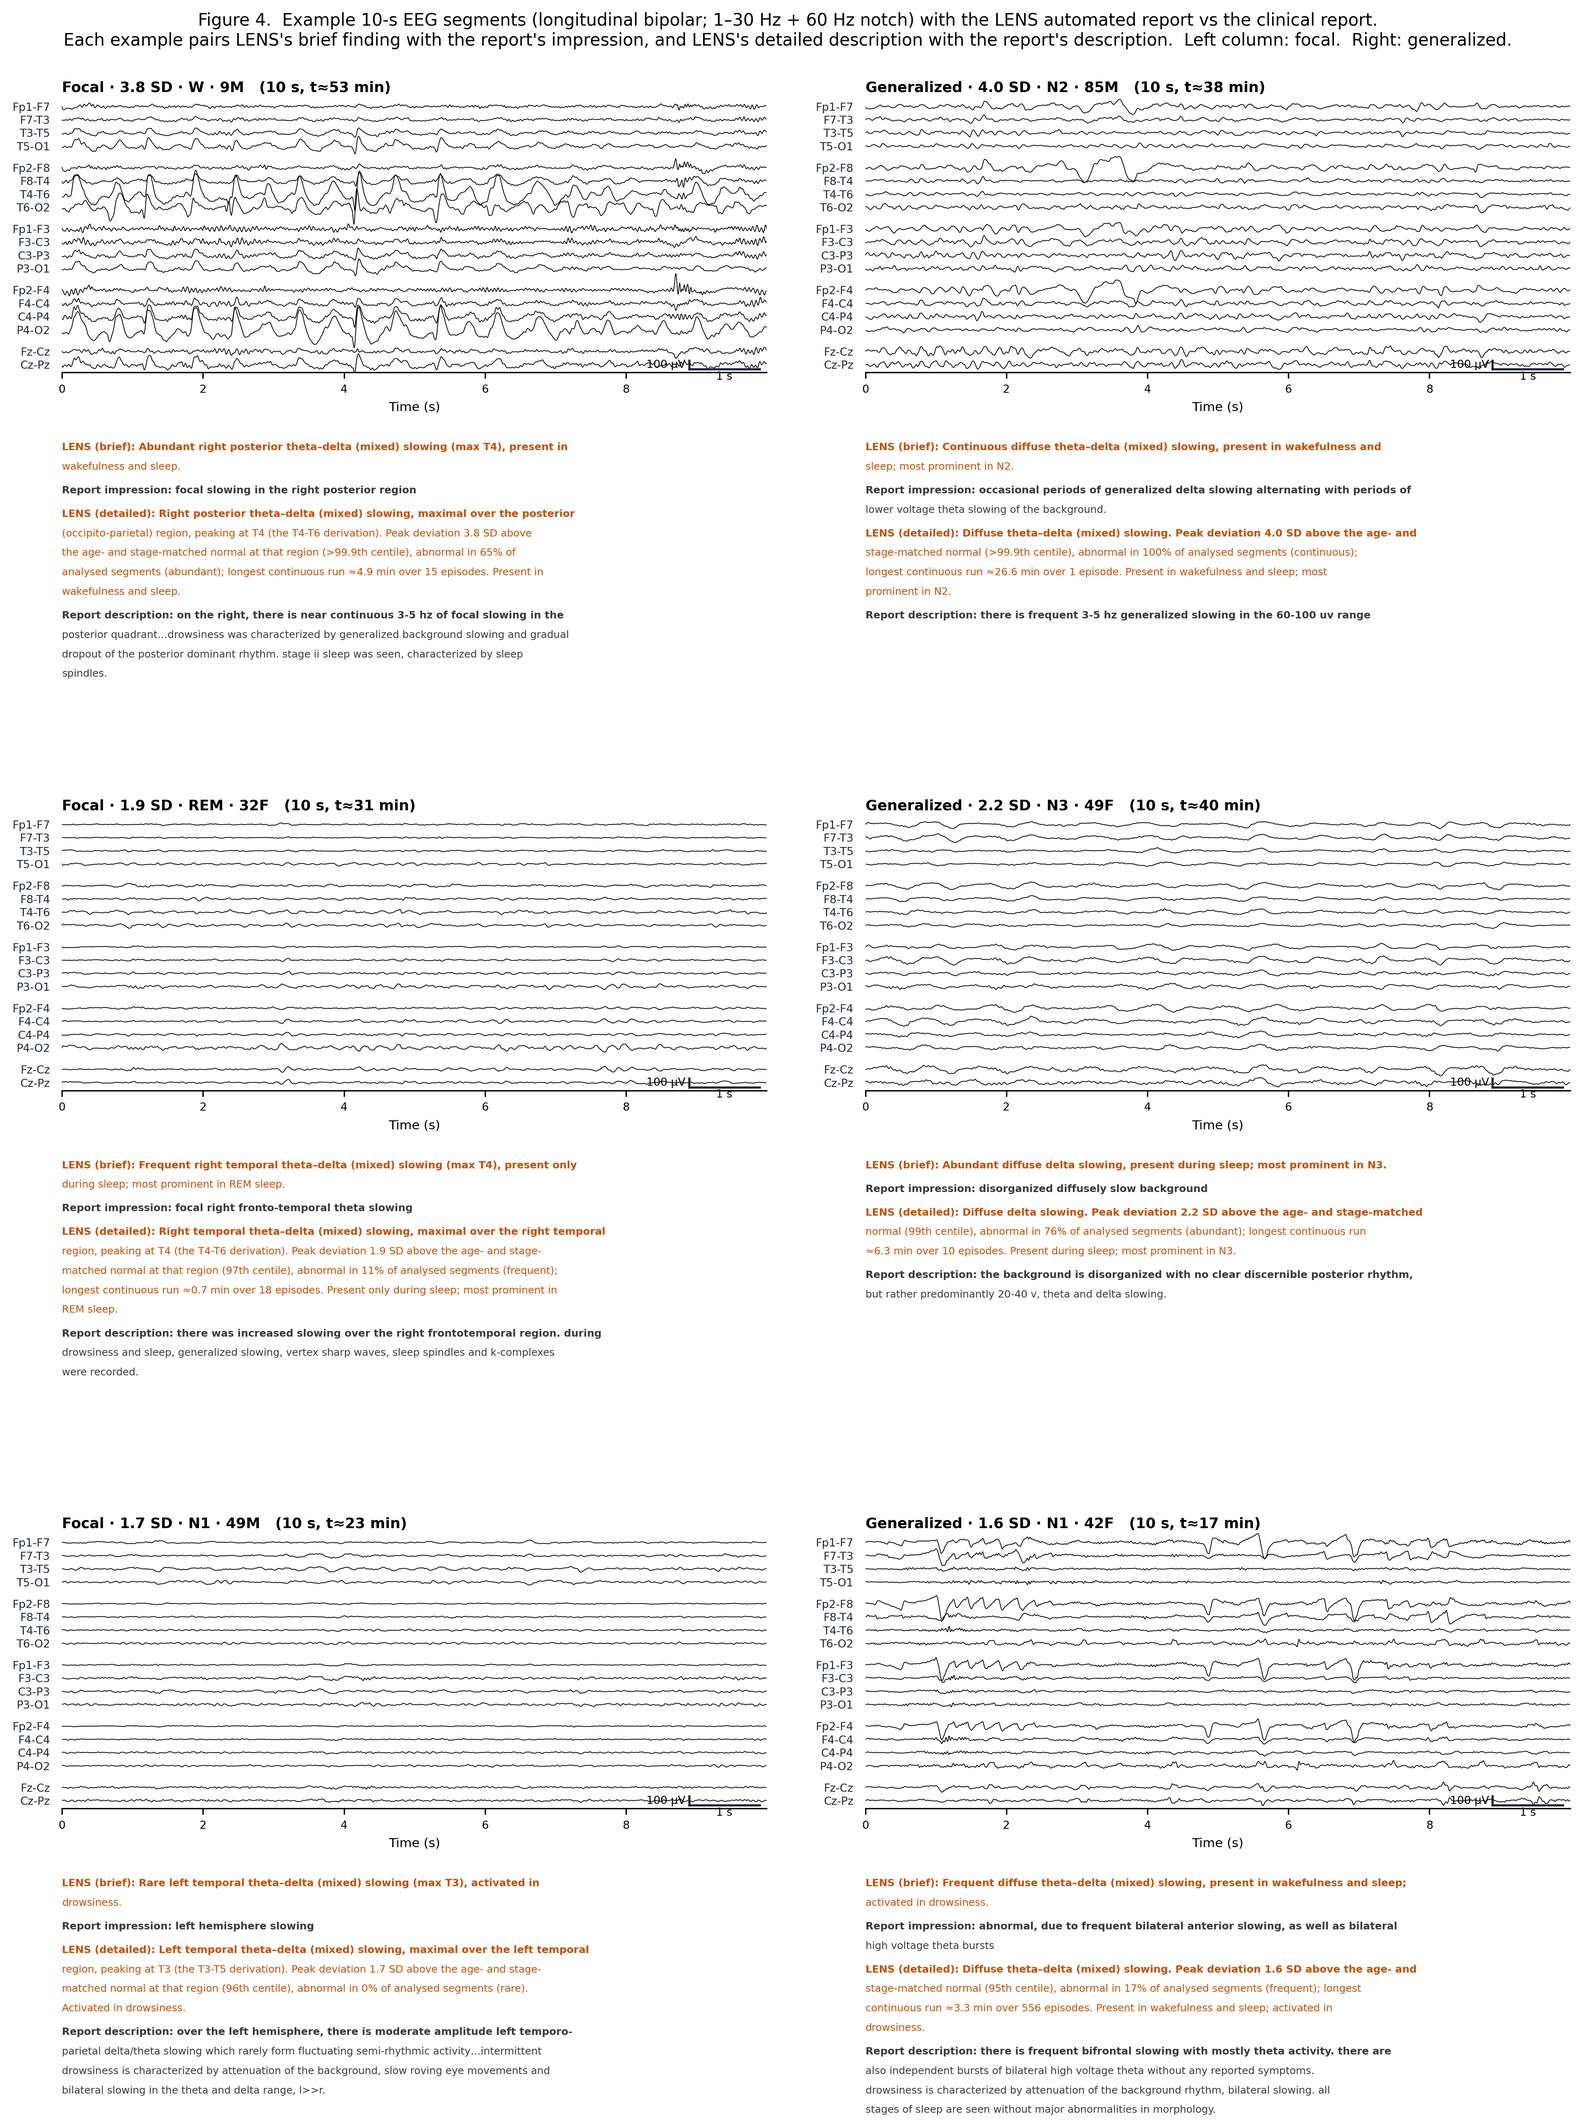
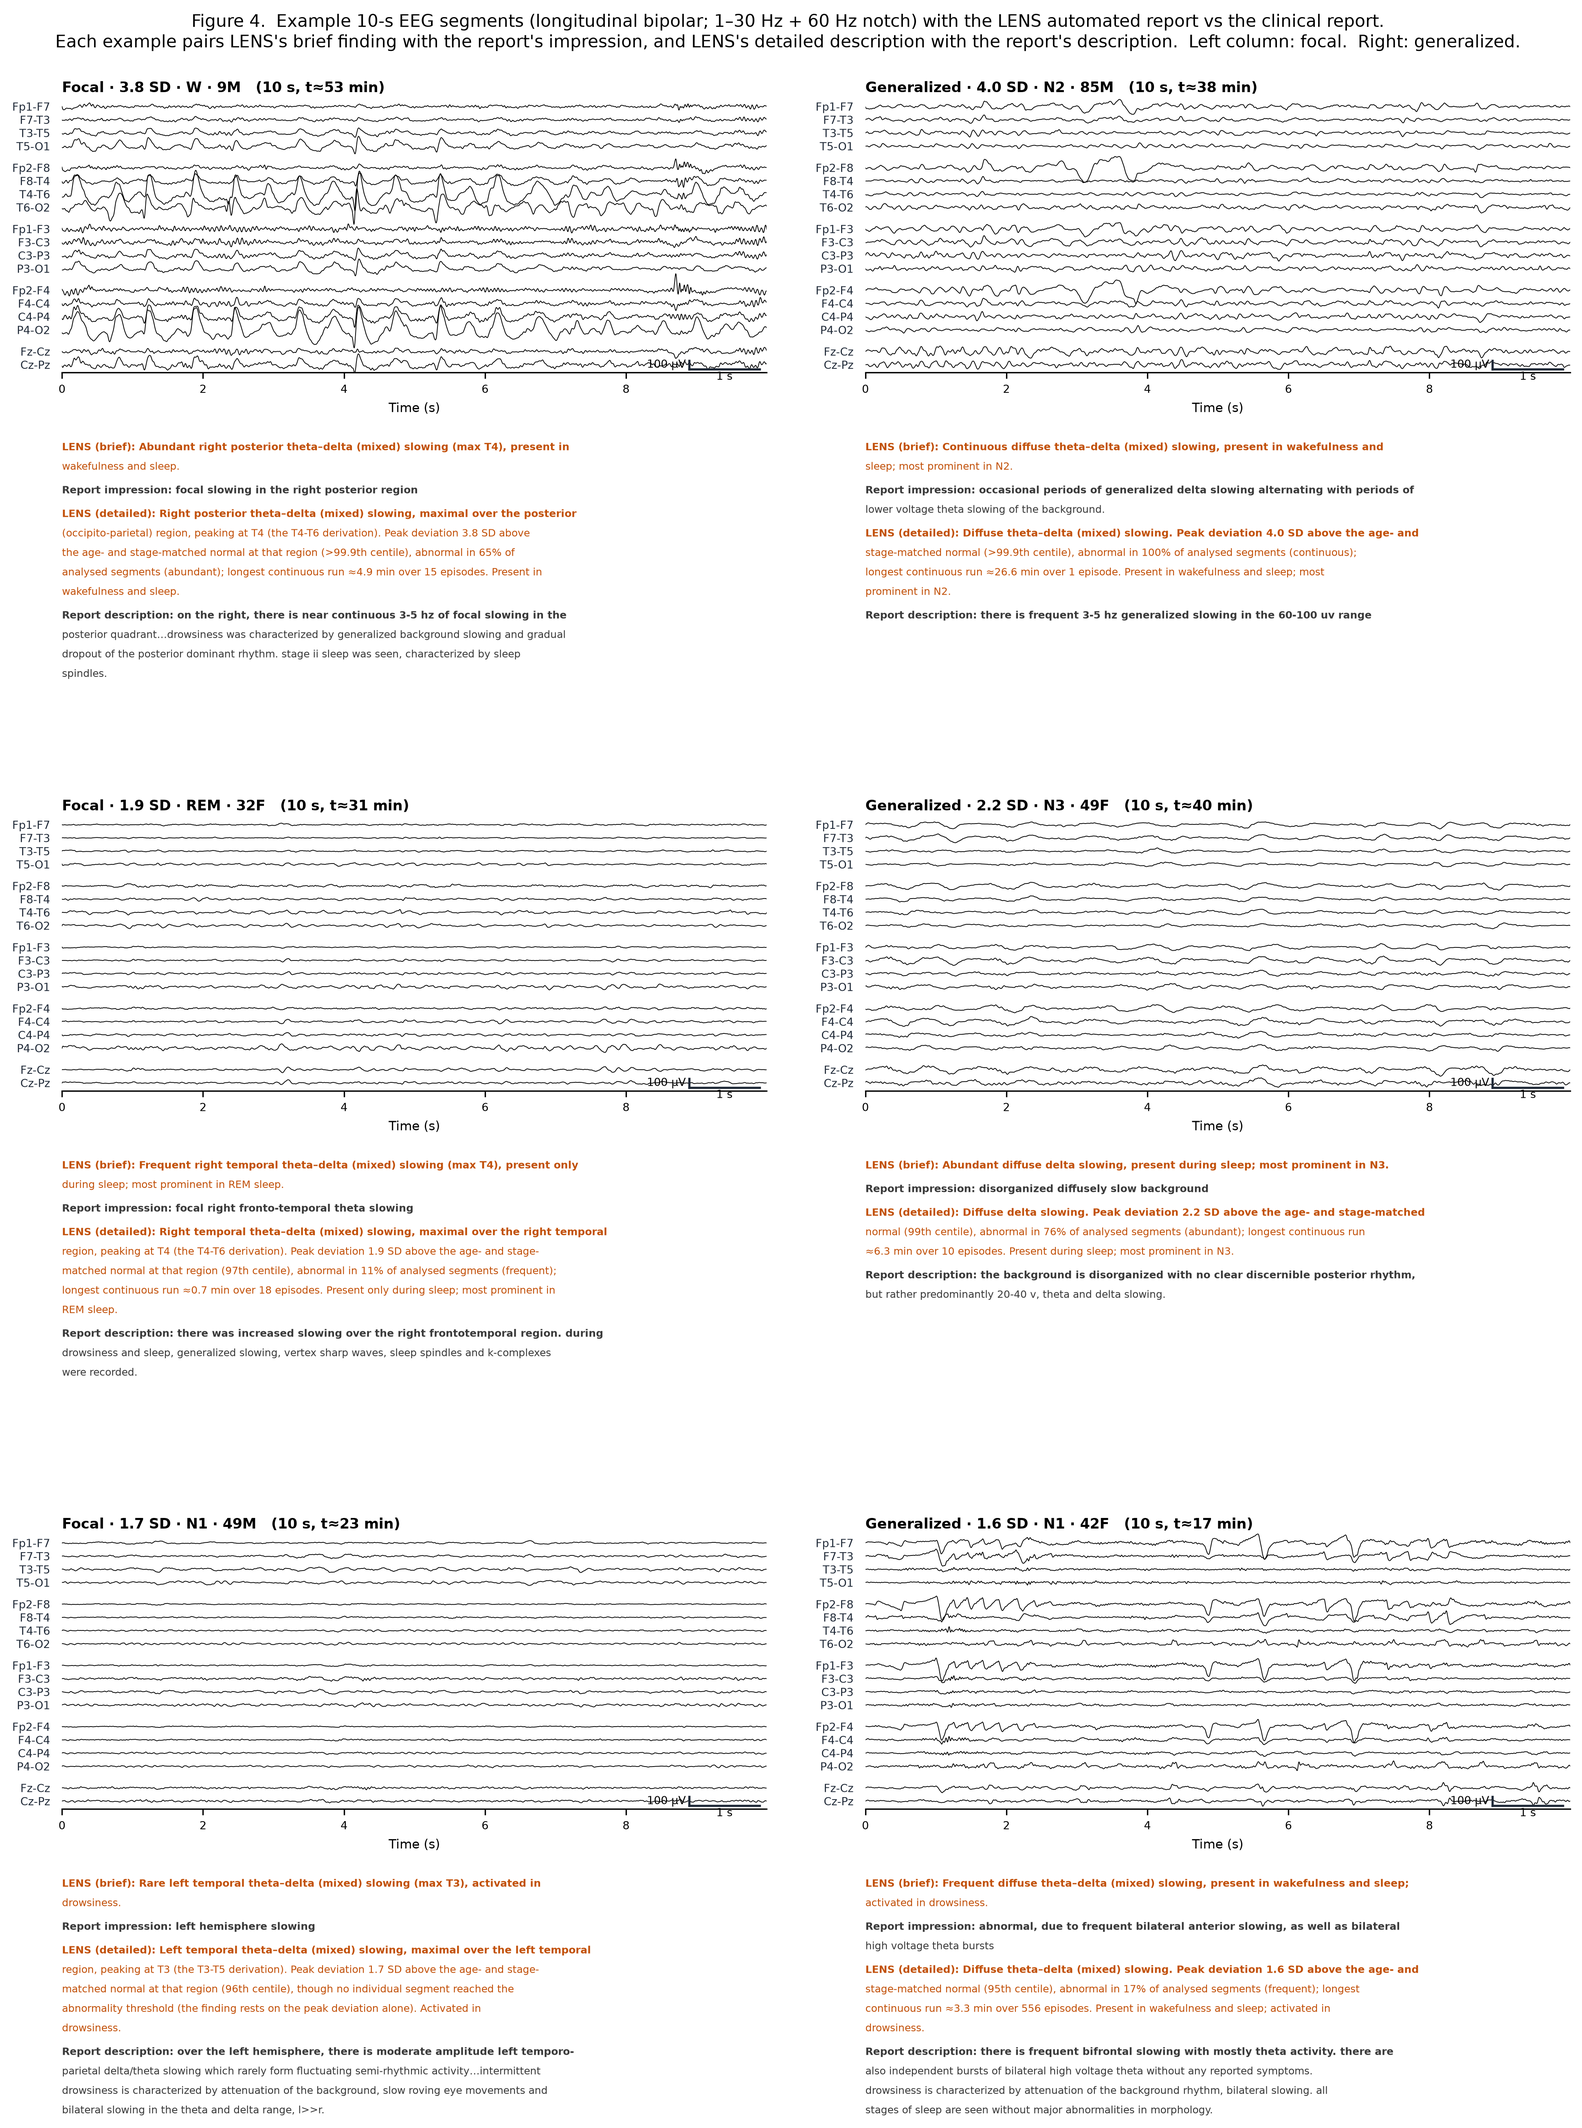
Figure 4: regenerate from S3 without rclone, fix the 0% contradiction, define 'episode'
scripts/63 could not run at all: it shells out to rclone at a hardcoded
/opt/homebrew/bin path to rediscover an EDF location the manifest already
holds. It now prefers resolved_path (the manifest is pre-flight-resolved
by scripts/129) and pulls with the aws CLI, translating rclone-style
's3:bucket/...' to 's3://bucket/...'. Renders 6/6 examples from S3 with
no rclone anywhere.

C146-b is already closed upstream: scripts/62 excludes reports naming
LPD/PLED/GPD/LRDA/triphasic/periodic patterns, so no periodic-discharge
exemplar can be selected.

C146-d fixed. A generated report read 'abnormal in 0% of analysed
segments' while asserting slowing. Two cases hid behind that zero: a
prevalence that merely ROUNDS to zero, now printed '<1%'; and a genuinely
zero prevalence, which means the peak never reached the abnormality
threshold and now says so instead of claiming 0% abnormality.

C146-e fixed. 'Episode' was never defined. Methods 2.8 now defines all
three persistence components and explains why a long fragmented recording
can show hundreds of short episodes beside a longest run of minutes --
which is what made '556 episodes' look wrong rather than merely
intermittent.

Figure 4 still trips the legibility guard at 57%. Unlike the others it
cannot be fixed by narrowing: bbox_inches='tight' grows the canvas to fit
the report text, so scaling fonts up grows it further (a 1.75x font trial
took it from 12.2in to 20.9in, i.e. worse). It needs a layout decision --
[…]

diff --git a/scripts/63_example_eeg_traces.py b/scripts/63_example_eeg_traces.py
@@ -103,12 +103,23 @@ def fetch_window(row, t0, eid):
     cf = CACHE / f"{eid}_{int(round(t0))}.npz"
     if cf.exists():
         z = np.load(cf, allow_pickle=True); return z["data"], [str(x) for x in z["chs"]], float(z["fs"])
-    ep, reason = m31.resolve_edf(row)
-    if ep is None:
-        raise RuntimeError(f"noedf:{reason}")
+    # The manifest is pre-flight-resolved (scripts/129), so resolved_path already names the exact session
+    # EDF. Prefer it: rclone is otherwise required just to re-discover a path we already know, and it is an
+    # undocumented dependency that anyone with plain AWS credentials should not need.
+    ep = getattr(row, "resolved_path", None)
+    if ep is None or (isinstance(ep, float) and np.isnan(ep)):
+        ep, reason = m31.resolve_edf(row)
+        if ep is None:
+            raise RuntimeError(f"noedf:{reason}")
     with tempfile.TemporaryDirectory() as td:
         local = Path(td) / "rec.edf"
-        subprocess.run([RC, "copyto", ep, str(local)], check=True, capture_output=True, timeout=1800)
+        uri = str(ep)
+        if uri.startswith("s3:") and not uri.startswith("s3://"):   # rclone-style -> aws CLI style
+            uri = "s3://" + uri[3:]
+        if uri.startswith("s3://"):
+            subprocess.run(["aws", "s3", "cp", uri, str(local)], check=True, capture_output=True, timeout=1800)
+        else:
+            subprocess.run([RC, "copyto", uri, str(local)], check=True, capture_output=True, timeout=1800)
         data, chs, fs = load_edf_referential(str(local), max_hours=max(0.1, t0 / 3600 + 0.05))
     s = int(round(t0 * fs)); n = int(round(SEG_S * fs)); s = min(s, data.shape[0] - n)
     win = data[s:s + n].T                                       # (19, n)
@@ -146,7 +157,7 @@ def main():
 
             def emit(lab, text, color, wrapw=94):
                 for k, ln in enumerate(textwrap.wrap(lab + (text or "—"), wrapw) or [""]):
-                    axt.text(0.0, y[0], ln, fontsize=6.0, color=color, va="top", transform=axt.transAxes,
+                    axt.text(0.0, y[0], ln, fontsize=6, color=color, va="top", transform=axt.transAxes,
                              fontweight="bold" if k == 0 else "normal"); y[0] -= LH
                 y[0] -= 0.02
             # two paired comparisons: our brief vs the report IMPRESSION; our detailed vs the report DESCRIPTION

diff --git a/scripts/58_description_words.py b/scripts/58_description_words.py
@@ -300,7 +300,16 @@ def report_paragraph(row, spatial, maxreg, confident, band, base, acc, elec):
     nep = int(row.n_episodes) if np.isfinite(row.n_episodes) else 0
     run = f"; longest continuous run ≈{row.longest_run_min:.1f} min over {nep} episode{'s' if nep != 1 else ''}" \
         if nep and np.isfinite(row.longest_run_min) else ""
-    s2 = f"{mag}, abnormal in {prev*100:.0f}% of analysed segments ({persistence_word(prev)}){run}."
+    # Round-1 review: a report reading "abnormal in 0% of analysed segments" while asserting slowing is a
+    # contradiction on its face. Two distinct cases hide behind that 0. A prevalence that merely ROUNDS to
+    # zero is reported as "<1%"; a prevalence that is genuinely zero means the peak never reached the
+    # abnormality threshold, and the sentence must say that rather than claim a 0% abnormality.
+    if prev <= 0:
+        s2 = (f"{mag}, though no individual segment reached the abnormality threshold "
+              f"(the finding rests on the peak deviation alone){run}.")
+    else:
+        pct = "<1%" if prev < 0.005 else f"{prev*100:.0f}%"
+        s2 = f"{mag}, abnormal in {pct} of analysed segments ({persistence_word(prev)}){run}."
     # sentence 3 — stage (cap first letter only; keep stage tokens like REM/N2 uppercase)
     stage_txt = "; ".join(x for x in [base, acc] if x)
     s3 = (stage_txt[0].upper() + stage_txt[1:] + ".") if stage_txt else ""

diff --git a/docs/manuscript_draft.md b/docs/manuscript_draft.md
@@ -147,7 +147,7 @@ Detection and description share the deviation field. We report three detectors.
 
 ### 2.8 Description: reading the deviation field into words
 
-Once slowing has been detected in a recording, LENS generates a structured verbal description of what kind of slowing it is, where it is, and how persistent it is (`scripts/56` extracts descriptors; `57` renders the panels; `58` generates sentences). Per recording, from the deviation field we read off: type/amount (whole-head delta-excess and theta-excess z: p90, mean, prevalence), laterality (signed left-minus-right region z, + = left), region (per-lobe magnitude and relative prominence/focality), anterior--posterior gradient (anterior − posterior z), persistence (prevalence = fraction of abnormal segments, longest continuous run, number of episodes), and per-sleep-stage versions of each. Descriptors are assembled into a compact finding line and a full report-style paragraph, governed clause-by-clause by `docs/claims_table.md`: magnitude as SD and centile (never a severity adjective), prevalence as a percentage following ACNS \[32\] terminology (occasional/frequent/abundant/continuous) as an internal gloss only, band as a low-confidence δ/θ/mixed call read from absolute delta/theta power dominance (whole-head mean log(δ/θ), marginal-matched to the report distribution), side asserted with the maximum-deviation lobe flagged provisional, anterior--posterior predominance asserted only when it clears the normal centile, stage accentuation and \"present only during sleep\", and a required abstain path (\"no lateralizing or regional spectral excess above the normal centile\") so the system never invents a lobe. Validation is by contrast (dose-response), rather than binary classification: each continuous descriptor is compared between recordings whose report *does* and *does not* name the corresponding finding, and must be higher where the report names it.
+Once slowing has been detected in a recording, LENS generates a structured verbal description of what kind of slowing it is, where it is, and how persistent it is (`scripts/56` extracts descriptors; `57` renders the panels; `58` generates sentences). Per recording, from the deviation field we read off: type/amount (whole-head delta-excess and theta-excess z: p90, mean, prevalence), laterality (signed left-minus-right region z, + = left), region (per-lobe magnitude and relative prominence/focality), anterior--posterior gradient (anterior − posterior z), persistence, and per-sleep-stage versions of each. Persistence has three components, defined on the sequence of 15-second segments: **prevalence**, the fraction of analysed segments that exceed the abnormality threshold; **longest continuous run**, the duration of the longest unbroken block of such segments; and **number of episodes**, the count of maximally contiguous blocks, so that an episode is one uninterrupted stretch of abnormal segments however long. Episode counts scale with recording length and with how fragmented the finding is --- a long overnight study whose slowing comes and goes can accumulate hundreds of short episodes alongside a longest run of only a few minutes, which is the signature of a highly intermittent rather than a sustained abnormality. Descriptors are assembled into a compact finding line and a full report-style paragraph, governed clause-by-clause by `docs/claims_table.md`: magnitude as SD and centile (never a severity adjective), prevalence as a percentage following ACNS \[32\] terminology (occasional/frequent/abundant/continuous) as an internal gloss only, band as a low-confidence δ/θ/mixed call read from absolute delta/theta power dominance (whole-head mean log(δ/θ), marginal-matched to the report distribution), side asserted with the maximum-deviation lobe flagged provisional, anterior--posterior predominance asserted only when it clears the normal centile, stage accentuation and \"present only during sleep\", and a required abstain path (\"no lateralizing or regional spectral excess above the normal centile\") so the system never invents a lobe. Validation is by contrast (dose-response), rather than binary classification: each continuous descriptor is compared between recordings whose report *does* and *does not* name the corresponding finding, and must be higher where the report names it.
 
 ### 2.9 Expert panels and the human ceiling
 

diff --git a/results/story/s4_d6.md b/results/story/s4_d6.md
@@ -20,7 +20,7 @@ Each report-slowing recording is turned into (a) a compact **finding line** and 
 |---|---|---|:--:|:--:|:--:|
 | 1 | Diffuse theta slowing. Peak deviation 2.4 SD above the age- and stage-matched normal (99th centile), abnormal in 98% of analysed segments (continuous); longest continuous run ≈20.3 min over 1 episode. Seen in the waking record. | mixed · right · temporal · - | ✗ | ✓ | ✗ |
 | 2 | Right posterior theta slowing, maximal over the posterior (occipito-parietal) region, peaking at T4 (the T4-T6 derivation). Peak deviation 1.9 SD above the age- and stage-matched normal at that region (97th centile), abnormal in 48% of analysed segments (frequent); longest continuous run ≈6.8 min over 18 episodes. Present in wakefulness and sleep; activated in drowsiness. | theta · right · posterior · unspec | ✓ | ✓ | ✓ |
-| 3 | Left temporal theta–delta (mixed) slowing, maximal over the left parasagittal chain. Peak deviation 1.0 SD above the age- and stage-matched normal at that region (84th centile), abnormal in 0% of analysed segments (rare). Most prominent in REM sleep. Localization is low-confidence: no lateralizing or regional spectral excess clears the 84th centile of normals. | mixed · left · temporal · - | ✓ | ✓ | ✓ |
+| 3 | Left temporal theta–delta (mixed) slowing, maximal over the left parasagittal chain. Peak deviation 1.0 SD above the age- and stage-matched normal at that region (84th centile), though no individual segment reached the abnormality threshold (the finding rests on the peak deviation alone). Most prominent in REM sleep. Localization is low-confidence: no lateralizing or regional spectral excess clears the 84th centile of normals. | mixed · left · temporal · - | ✓ | ✓ | ✓ |
 | 4 | Diffuse theta–delta (mixed) slowing. Peak deviation 1.3 SD above the age- and stage-matched normal (90th centile), abnormal in 6% of analysed segments (occasional); longest continuous run ≈0.7 min over 2 episodes. Present during sleep; activated in drowsiness. | mixed · bilateral · - · - | ✓ | – | ✓ |
 | 5 | Right temporal theta–delta (mixed) slowing, maximal over the right temporal region, peaking at T4 (the F8-T4 derivation). Peak deviation 1.7 SD above the age- and stage-matched normal at that region (95th centile), abnormal in 1% of analysed segments (rare); longest continuous run ≈0.2 min over 4 episodes. Activated in drowsiness. | - · bilateral · - · - | ✗ | – | – |
 | 6 | Diffuse theta–delta (mixed) slowing with a superimposed right temporal focus. Whole-head deviation 2.9 SD above the age- and stage-matched normal, with the focus reaching 3.3 SD (>99.9th centile) at that region, abnormal in 78% of analysed segments (abundant); longest continuous run ≈46.9 min over 410 episodes. Present in wakefulness and sleep; most prominent in REM sleep. | mixed · right · central · - | ✓ | – | ✓ |

diff --git a/results/story/s4_examples.md b/results/story/s4_examples.md
@@ -14,7 +14,7 @@ LENS's BRIEF finding line and FULL report paragraph (governed by docs/claims_tab
 
 **Case 3 — Focal slowing · peak 1.7 SD (96th centile) · prominent in N1 · 49M**  
 - LENS (brief): Rare left temporal theta–delta (mixed) slowing (max T3), activated in drowsiness.  
-- LENS (full): Left temporal theta–delta (mixed) slowing, maximal over the left temporal region, peaking at T3 (the T3-T5 derivation). Peak deviation 1.7 SD above the age- and stage-matched normal at that region (96th centile), abnormal in 0% of analysed segments (rare). Activated in drowsiness.  
+- LENS (full): Left temporal theta–delta (mixed) slowing, maximal over the left temporal region, peaking at T3 (the T3-T5 derivation). Peak deviation 1.7 SD above the age- and stage-matched normal at that region (96th centile), though no individual segment reached the abnormality threshold (the finding rests on the peak deviation alone). Activated in drowsiness.  
 - Report (structured): focal slowing, left temporal (mixed)
 
 **Case 4 — Generalized slowing · peak 4.0 SD (>99.9th centile) · prominent in N2 · 85M**  
